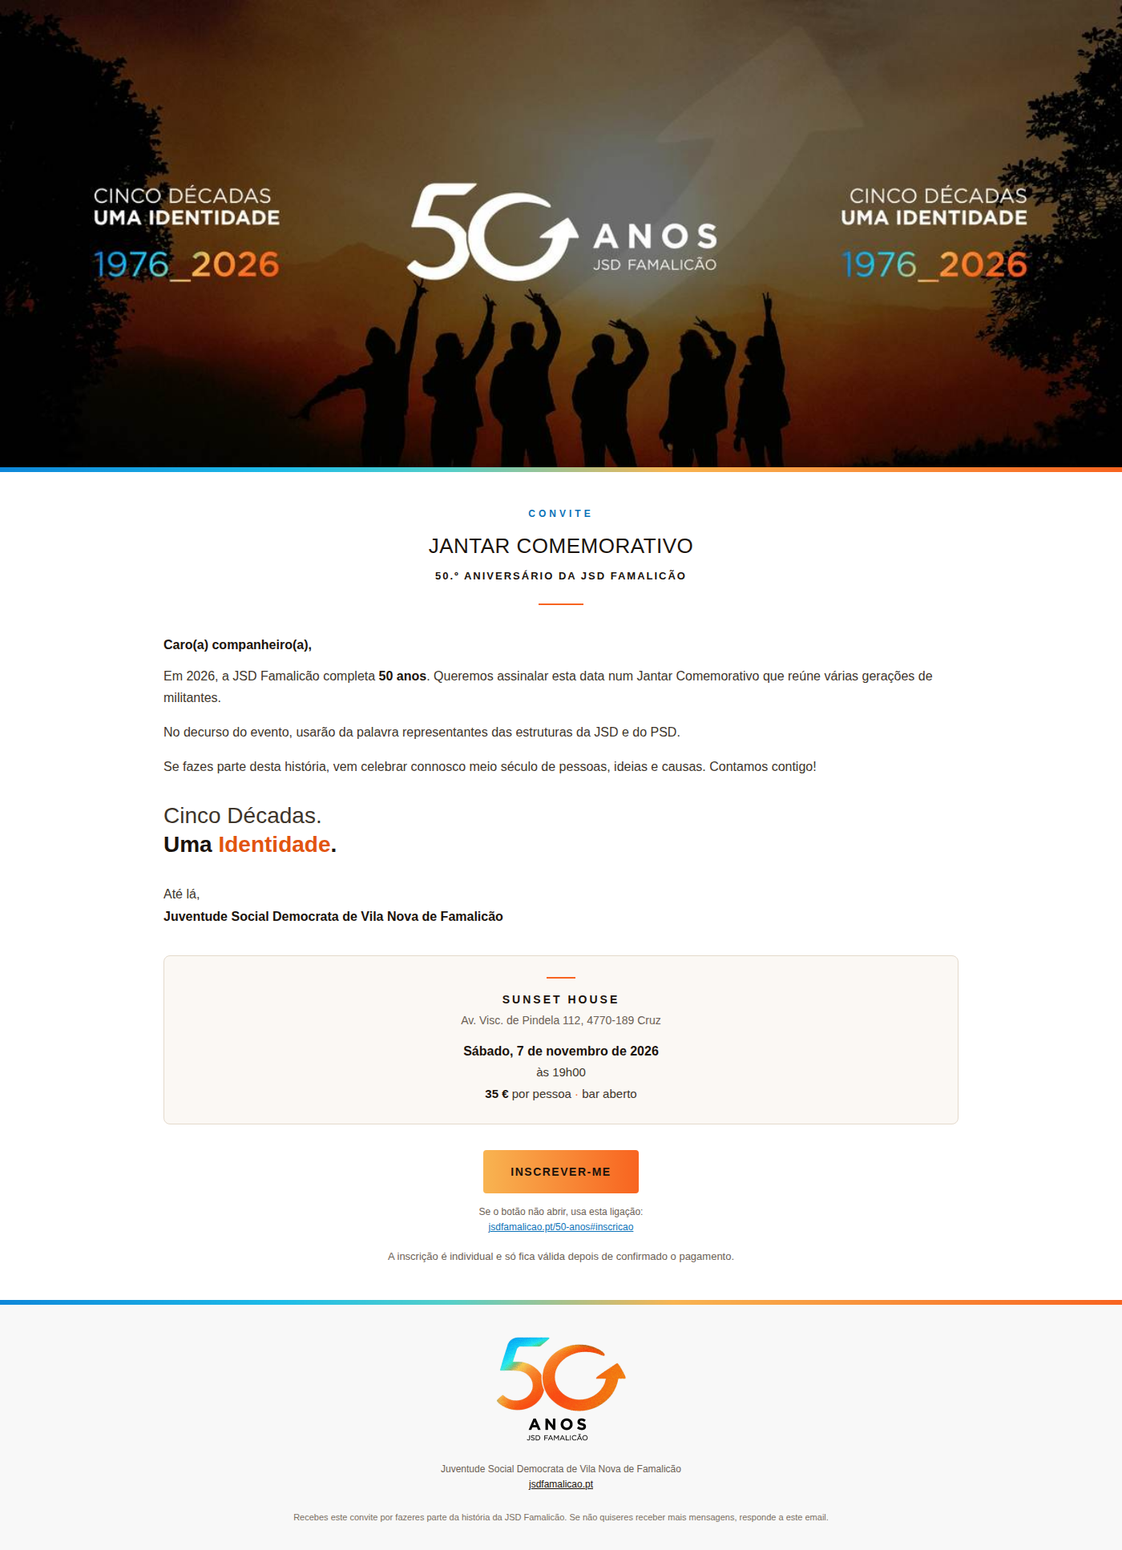
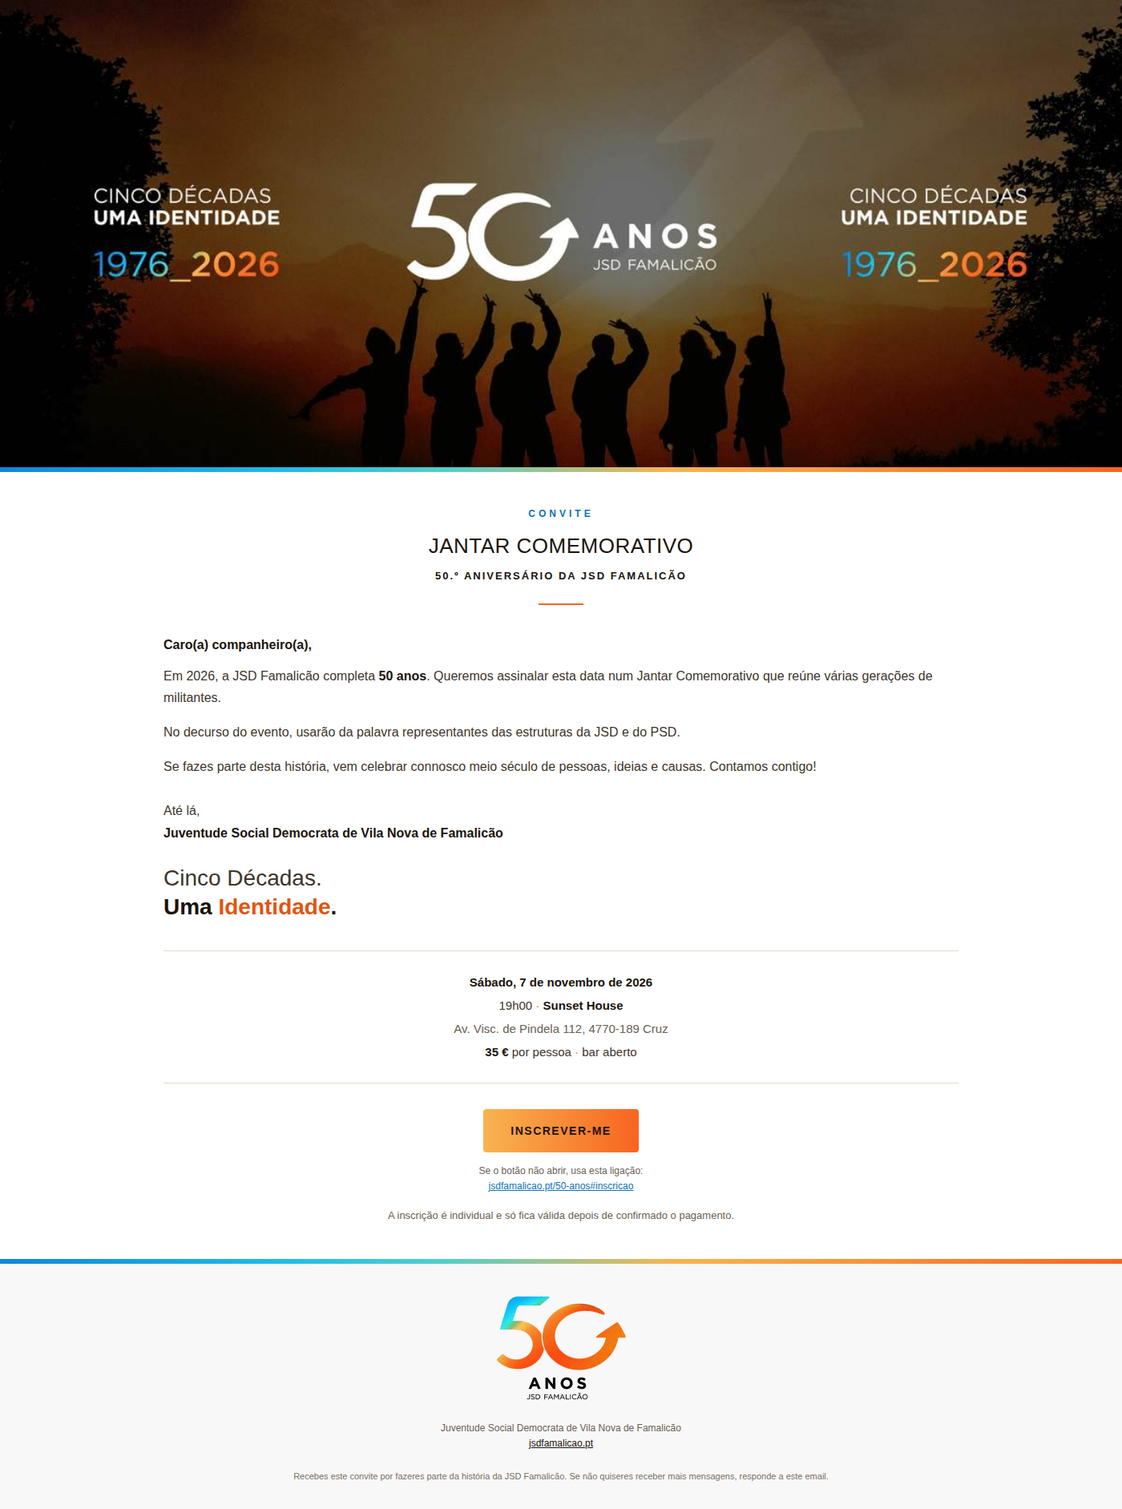
Email: v7/v8 com os dados entre filetes e o mote depois da despedida
Claude-Session: https://claude.ai/code/session_015mwyiP4waEoG1anDPcCGSk

diff --git a/email/jsd-50-anos/v8-convite-institucional.html b/email/jsd-50-anos/v8-convite-institucional.html
@@ -27,11 +27,6 @@
       .btn-tabela  { width:100% !important; }
       .btn         { display:block !important; padding:19px 12px !important; font-size:16px !important; }
       .t-mote      { font-size:30px !important; line-height:38px !important; }
-      .t-cx-local  { font-size:15px !important; line-height:22px !important; }
-      .t-cx-morada { font-size:15px !important; line-height:23px !important; }
-      .t-cx-data   { font-size:18px !important; line-height:26px !important; }
-      .t-cx-preco  { font-size:16px !important; line-height:24px !important; }
-      .cx-pad      { padding-left:16px !important; padding-right:16px !important; }
     }
   </style>
 </head>
@@ -94,32 +89,28 @@
             <td class="px t-corpo" align="left" style="padding:16px 24px 0px 24px; font-family:Montserrat,'Helvetica Neue',Helvetica,Arial,sans-serif; font-size:16px; line-height:27px; color:#3E352B; text-align:left;">Será uma honra contar com a sua presença para celebrarmos juntos meio século de pessoas, ideias e causas.</td>
           </tr>
           <tr>
-            <td class="px t-mote" align="left" style="padding:30px 24px 0px 24px; font-family:Montserrat,'Helvetica Neue',Helvetica,Arial,sans-serif; font-size:28px; line-height:36px; font-weight:300; color:#3E352B; text-align:left;">Cinco Décadas.<br><strong style="font-weight:800; color:#1B130C;">Uma <span style="color:#E2540F;">Identidade</span>.</strong></td>
-          </tr>
-          <tr>
-            <td class="px t-corpo" align="left" style="padding:30px 24px 0px 24px; font-family:Montserrat,'Helvetica Neue',Helvetica,Arial,sans-serif; font-size:16px; line-height:27px; color:#3E352B; text-align:left;">Com os melhores cumprimentos,</td>
+            <td class="px t-corpo" align="left" style="padding:28px 24px 0px 24px; font-family:Montserrat,'Helvetica Neue',Helvetica,Arial,sans-serif; font-size:16px; line-height:27px; color:#3E352B; text-align:left;">Com os melhores cumprimentos,</td>
           </tr>
           <tr>
             <td class="px t-corpo" align="left" style="padding:2px 24px 0px 24px; font-family:Montserrat,'Helvetica Neue',Helvetica,Arial,sans-serif; font-size:16px; line-height:25px; font-weight:700; color:#1B130C; text-align:left;">Juventude Social Democrata de Vila Nova de&nbsp;Famalicão</td>
           </tr>
           <tr>
-            <td class="px" style="padding:36px 24px 0 24px;">
-              <table role="presentation" width="100%" cellpadding="0" cellspacing="0" border="0" bgcolor="#FBF8F4"
-                     style="width:100%; background-color:#FBF8F4; border:1px solid #E4D9CB; border-radius:8px;">
-                <tr>
-                  <td class="cx-pad" align="center" style="padding:26px 24px 26px 24px;">
-                    <table role="presentation" width="100%" cellpadding="0" cellspacing="0" border="0">
-                      <tr><td align="center" style="padding-bottom:16px;">
-                        <table role="presentation" align="center" cellpadding="0" cellspacing="0" border="0"><tr><td width="36" height="2" bgcolor="#F86420" style="width:36px; height:2px; background-color:#F86420; font-size:0; line-height:0;">&nbsp;</td></tr></table>
-                      </td></tr>
-                      <tr><td class="t-cx-local" align="center" style="padding-top:0px; font-family:Montserrat,'Helvetica Neue',Helvetica,Arial,sans-serif; font-size:14px; line-height:21px; font-weight:800; letter-spacing:3px; text-transform:uppercase; color:#1B130C; text-align:center;">Sunset&nbsp;House</td></tr>
-                      <tr><td class="t-cx-morada" align="center" style="padding-top:4px; font-family:Montserrat,'Helvetica Neue',Helvetica,Arial,sans-serif; font-size:14px; line-height:22px; color:#6B6054; text-align:center;"><a href="https://www.google.com/maps/search/?api=1&amp;query=Av.+Visconde+de+Pindela+112,+4770-189+Cruz" style="color:#6B6054; text-decoration:none;">Av.&nbsp;Visc.&nbsp;de&nbsp;Pindela&nbsp;112, 4770&#8209;189&nbsp;Cruz</a></td></tr>
-                      <tr><td class="t-cx-data" align="center" style="padding-top:16px; font-family:Montserrat,'Helvetica Neue',Helvetica,Arial,sans-serif; font-size:16px; line-height:24px; font-weight:700; color:#1B130C; text-align:center;">Sábado, 7&nbsp;de&nbsp;novembro&nbsp;de&nbsp;2026</td></tr>
-                      <tr><td class="t-cx-preco" align="center" style="padding-top:2px; font-family:Montserrat,'Helvetica Neue',Helvetica,Arial,sans-serif; font-size:15px; line-height:23px; color:#3E352B; text-align:center;">às 19h00</td></tr>
-                      <tr><td class="t-cx-preco" align="center" style="padding-top:4px; font-family:Montserrat,'Helvetica Neue',Helvetica,Arial,sans-serif; font-size:15px; line-height:23px; color:#3E352B; text-align:center;"><strong style="color:#1B130C;">35&nbsp;€</strong> por pessoa<span style="color:#F86420;">&nbsp;·&nbsp;</span>bar aberto</td></tr>
-                    </table>
-                  </td>
-                </tr>
+            <td class="px t-mote" align="left" style="padding:26px 24px 0px 24px; font-family:Montserrat,'Helvetica Neue',Helvetica,Arial,sans-serif; font-size:28px; line-height:36px; font-weight:300; color:#3E352B; text-align:left;">Cinco Décadas.<br><strong style="font-weight:800; color:#1B130C;">Uma <span style="color:#E2540F;">Identidade</span>.</strong></td>
+          </tr>
+          <tr>
+            <td class="px" style="padding:36px 24px 0px 24px;">
+              <table role="presentation" width="100%" cellpadding="0" cellspacing="0" border="0">
+                <tr><td height="1" bgcolor="#E4D9CB" style="height:1px; background-color:#E4D9CB; font-size:0; line-height:0;">&nbsp;</td></tr>
+              </table>
+            </td>
+          </tr>
+          <tr>
+            <td class="px t-dados" align="center" style="padding:24px 24px 24px 24px; font-family:Montserrat,'Helvetica Neue',Helvetica,Arial,sans-serif; font-size:15px; line-height:29px; color:#3E352B; text-align:center;"><strong style="color:#1B130C;">Sábado, 7&nbsp;de&nbsp;novembro de&nbsp;2026</strong><br>19h00<span style="color:#F86420;">&nbsp;·&nbsp;</span><strong style="color:#1B130C;">Sunset&nbsp;House</strong><br><a href="https://www.google.com/maps/search/?api=1&amp;query=Av.+Visconde+de+Pindela+112,+4770-189+Cruz" style="color:#6B6054; text-decoration:none;">Av.&nbsp;Visc.&nbsp;de&nbsp;Pindela&nbsp;112, 4770&#8209;189&nbsp;Cruz</a><br><strong style="color:#1B130C;">35&nbsp;€</strong> por pessoa<span style="color:#F86420;">&nbsp;·&nbsp;</span>bar aberto</td>
+          </tr>
+          <tr>
+            <td class="px" style="padding:0px 24px 0px 24px;">
+              <table role="presentation" width="100%" cellpadding="0" cellspacing="0" border="0">
+                <tr><td height="1" bgcolor="#E4D9CB" style="height:1px; background-color:#E4D9CB; font-size:0; line-height:0;">&nbsp;</td></tr>
               </table>
             </td>
           </tr>

diff --git a/email/jsd-50-anos/v7-convite-geral.html b/email/jsd-50-anos/v7-convite-geral.html
@@ -27,11 +27,6 @@
       .btn-tabela  { width:100% !important; }
       .btn         { display:block !important; padding:19px 12px !important; font-size:16px !important; }
       .t-mote      { font-size:30px !important; line-height:38px !important; }
-      .t-cx-local  { font-size:15px !important; line-height:22px !important; }
-      .t-cx-morada { font-size:15px !important; line-height:23px !important; }
-      .t-cx-data   { font-size:18px !important; line-height:26px !important; }
-      .t-cx-preco  { font-size:16px !important; line-height:24px !important; }
-      .cx-pad      { padding-left:16px !important; padding-right:16px !important; }
     }
   </style>
 </head>
@@ -94,32 +89,28 @@
             <td class="px t-corpo" align="left" style="padding:16px 24px 0px 24px; font-family:Montserrat,'Helvetica Neue',Helvetica,Arial,sans-serif; font-size:16px; line-height:27px; color:#3E352B; text-align:left;">Se fazes parte desta história, vem celebrar connosco meio século de pessoas, ideias e causas. Contamos contigo!</td>
           </tr>
           <tr>
-            <td class="px t-mote" align="left" style="padding:30px 24px 0px 24px; font-family:Montserrat,'Helvetica Neue',Helvetica,Arial,sans-serif; font-size:28px; line-height:36px; font-weight:300; color:#3E352B; text-align:left;">Cinco Décadas.<br><strong style="font-weight:800; color:#1B130C;">Uma <span style="color:#E2540F;">Identidade</span>.</strong></td>
-          </tr>
-          <tr>
-            <td class="px t-corpo" align="left" style="padding:30px 24px 0px 24px; font-family:Montserrat,'Helvetica Neue',Helvetica,Arial,sans-serif; font-size:16px; line-height:27px; color:#3E352B; text-align:left;">Até lá,</td>
+            <td class="px t-corpo" align="left" style="padding:28px 24px 0px 24px; font-family:Montserrat,'Helvetica Neue',Helvetica,Arial,sans-serif; font-size:16px; line-height:27px; color:#3E352B; text-align:left;">Até lá,</td>
           </tr>
           <tr>
             <td class="px t-corpo" align="left" style="padding:2px 24px 0px 24px; font-family:Montserrat,'Helvetica Neue',Helvetica,Arial,sans-serif; font-size:16px; line-height:25px; font-weight:700; color:#1B130C; text-align:left;">Juventude Social Democrata de Vila Nova de&nbsp;Famalicão</td>
           </tr>
           <tr>
-            <td class="px" style="padding:36px 24px 0 24px;">
-              <table role="presentation" width="100%" cellpadding="0" cellspacing="0" border="0" bgcolor="#FBF8F4"
-                     style="width:100%; background-color:#FBF8F4; border:1px solid #E4D9CB; border-radius:8px;">
-                <tr>
-                  <td class="cx-pad" align="center" style="padding:26px 24px 26px 24px;">
-                    <table role="presentation" width="100%" cellpadding="0" cellspacing="0" border="0">
-                      <tr><td align="center" style="padding-bottom:16px;">
-                        <table role="presentation" align="center" cellpadding="0" cellspacing="0" border="0"><tr><td width="36" height="2" bgcolor="#F86420" style="width:36px; height:2px; background-color:#F86420; font-size:0; line-height:0;">&nbsp;</td></tr></table>
-                      </td></tr>
-                      <tr><td class="t-cx-local" align="center" style="padding-top:0px; font-family:Montserrat,'Helvetica Neue',Helvetica,Arial,sans-serif; font-size:14px; line-height:21px; font-weight:800; letter-spacing:3px; text-transform:uppercase; color:#1B130C; text-align:center;">Sunset&nbsp;House</td></tr>
-                      <tr><td class="t-cx-morada" align="center" style="padding-top:4px; font-family:Montserrat,'Helvetica Neue',Helvetica,Arial,sans-serif; font-size:14px; line-height:22px; color:#6B6054; text-align:center;"><a href="https://www.google.com/maps/search/?api=1&amp;query=Av.+Visconde+de+Pindela+112,+4770-189+Cruz" style="color:#6B6054; text-decoration:none;">Av.&nbsp;Visc.&nbsp;de&nbsp;Pindela&nbsp;112, 4770&#8209;189&nbsp;Cruz</a></td></tr>
-                      <tr><td class="t-cx-data" align="center" style="padding-top:16px; font-family:Montserrat,'Helvetica Neue',Helvetica,Arial,sans-serif; font-size:16px; line-height:24px; font-weight:700; color:#1B130C; text-align:center;">Sábado, 7&nbsp;de&nbsp;novembro&nbsp;de&nbsp;2026</td></tr>
-                      <tr><td class="t-cx-preco" align="center" style="padding-top:2px; font-family:Montserrat,'Helvetica Neue',Helvetica,Arial,sans-serif; font-size:15px; line-height:23px; color:#3E352B; text-align:center;">às 19h00</td></tr>
-                      <tr><td class="t-cx-preco" align="center" style="padding-top:4px; font-family:Montserrat,'Helvetica Neue',Helvetica,Arial,sans-serif; font-size:15px; line-height:23px; color:#3E352B; text-align:center;"><strong style="color:#1B130C;">35&nbsp;€</strong> por pessoa<span style="color:#F86420;">&nbsp;·&nbsp;</span>bar aberto</td></tr>
-                    </table>
-                  </td>
-                </tr>
+            <td class="px t-mote" align="left" style="padding:26px 24px 0px 24px; font-family:Montserrat,'Helvetica Neue',Helvetica,Arial,sans-serif; font-size:28px; line-height:36px; font-weight:300; color:#3E352B; text-align:left;">Cinco Décadas.<br><strong style="font-weight:800; color:#1B130C;">Uma <span style="color:#E2540F;">Identidade</span>.</strong></td>
+          </tr>
+          <tr>
+            <td class="px" style="padding:36px 24px 0px 24px;">
+              <table role="presentation" width="100%" cellpadding="0" cellspacing="0" border="0">
+                <tr><td height="1" bgcolor="#E4D9CB" style="height:1px; background-color:#E4D9CB; font-size:0; line-height:0;">&nbsp;</td></tr>
+              </table>
+            </td>
+          </tr>
+          <tr>
+            <td class="px t-dados" align="center" style="padding:24px 24px 24px 24px; font-family:Montserrat,'Helvetica Neue',Helvetica,Arial,sans-serif; font-size:15px; line-height:29px; color:#3E352B; text-align:center;"><strong style="color:#1B130C;">Sábado, 7&nbsp;de&nbsp;novembro de&nbsp;2026</strong><br>19h00<span style="color:#F86420;">&nbsp;·&nbsp;</span><strong style="color:#1B130C;">Sunset&nbsp;House</strong><br><a href="https://www.google.com/maps/search/?api=1&amp;query=Av.+Visconde+de+Pindela+112,+4770-189+Cruz" style="color:#6B6054; text-decoration:none;">Av.&nbsp;Visc.&nbsp;de&nbsp;Pindela&nbsp;112, 4770&#8209;189&nbsp;Cruz</a><br><strong style="color:#1B130C;">35&nbsp;€</strong> por pessoa<span style="color:#F86420;">&nbsp;·&nbsp;</span>bar aberto</td>
+          </tr>
+          <tr>
+            <td class="px" style="padding:0px 24px 0px 24px;">
+              <table role="presentation" width="100%" cellpadding="0" cellspacing="0" border="0">
+                <tr><td height="1" bgcolor="#E4D9CB" style="height:1px; background-color:#E4D9CB; font-size:0; line-height:0;">&nbsp;</td></tr>
               </table>
             </td>
           </tr>

diff --git a/email/jsd-50-anos/src/gerar_final.py b/email/jsd-50-anos/src/gerar_final.py
@@ -1,8 +1,8 @@
 """Versões FINAIS do convite: v7 (geral) e v8 (institucional). Mesmo layout nos dois.
 
-Ordem: cabeçalho centrado → saudação → 3 parágrafos → mote «Cinco Décadas. Uma Identidade.» em
-destaque (alinhado com o texto) → despedida e assinatura → quadrado com local, morada, data e preço →
-botão, ligação alternativa e nota → rodapé com o logo (PNG transparente).
+Ordem: cabeçalho centrado → saudação → 3 parágrafos → despedida e assinatura → mote «Cinco Décadas.
+Uma Identidade.» em destaque (alinhado com o texto) → dados (data, hora, local, morada, preço) em linhas
+centradas entre dois filetes → botão, ligação alternativa e nota → rodapé com o logo (PNG transparente).
 
 Modo noturno: <meta name="color-scheme" content="light only"> e :root { color-scheme: light only }
 pedem a versão clara aos clientes que respeitam esta indicação (Apple Mail/iOS Mail, Outlook para
@@ -57,41 +57,17 @@ ASSINATURA = 'Juventude Social Democrata de Vila Nova de&nbsp;Famalicão'
 
 # ------------------------------------------------------------------ responsivo (telemóvel)
 CSS = '''
-      .t-mote      { font-size:30px !important; line-height:38px !important; }
-      .t-cx-local  { font-size:15px !important; line-height:22px !important; }
-      .t-cx-morada { font-size:15px !important; line-height:23px !important; }
-      .t-cx-data   { font-size:18px !important; line-height:26px !important; }
-      .t-cx-preco  { font-size:16px !important; line-height:24px !important; }
-      .cx-pad      { padding-left:16px !important; padding-right:16px !important; }'''
+      .t-mote      { font-size:30px !important; line-height:38px !important; }'''
 
 
-def quadrado():
-    """Quadrado com local, morada, data e preço: fundo claro, filete fino, cantos arredondados, sem etiquetas."""
-    def l(classe, estilo, html, cima=0):
-        return (f'<tr><td class="{classe}" align="center" style="padding-top:{cima}px; font-family:{FONT}; {estilo} text-align:center;">'
-                f'{html}</td></tr>')
-    return f'''
-          <tr>
-            <td class="px" style="padding:36px {LADO}px 0 {LADO}px;">
-              <table role="presentation" width="100%" cellpadding="0" cellspacing="0" border="0" bgcolor="#FBF8F4"
-                     style="width:100%; background-color:#FBF8F4; border:1px solid #E4D9CB; border-radius:8px;">
-                <tr>
-                  <td class="cx-pad" align="center" style="padding:26px 24px 26px 24px;">
-                    <table role="presentation" width="100%" cellpadding="0" cellspacing="0" border="0">
-                      <tr><td align="center" style="padding-bottom:16px;">
-                        <table role="presentation" align="center" cellpadding="0" cellspacing="0" border="0"><tr><td width="36" height="2" bgcolor="#F86420" style="width:36px; height:2px; background-color:#F86420; font-size:0; line-height:0;">&nbsp;</td></tr></table>
-                      </td></tr>
-                      {l('t-cx-local', f'font-size:14px; line-height:21px; font-weight:800; letter-spacing:3px; text-transform:uppercase; color:{ESCURO};', 'Sunset&nbsp;House')}
-                      {l('t-cx-morada', f'font-size:14px; line-height:22px; color:{MUTED};', MAPA_LINK, 4)}
-                      {l('t-cx-data', f'font-size:16px; line-height:24px; font-weight:700; color:{ESCURO};', 'Sábado, 7&nbsp;de&nbsp;novembro&nbsp;de&nbsp;2026', 16)}
-                      {l('t-cx-preco', 'font-size:15px; line-height:23px; color:#3E352B;', 'às 19h00', 2)}
-                      {l('t-cx-preco', 'font-size:15px; line-height:23px; color:#3E352B;', f'<strong {FORTE}>35&nbsp;€</strong> por pessoa{PONTO}bar aberto', 4)}
-                    </table>
-                  </td>
-                </tr>
-              </table>
-            </td>
-          </tr>'''
+def dados():
+    """Local, morada, data e preço em quatro linhas centradas entre dois filetes finos (sem caixa)."""
+    return filete(36, 0) + linha(
+        f'<strong {FORTE}>Sábado, 7&nbsp;de&nbsp;novembro de&nbsp;2026</strong><br>'
+        f'19h00{PONTO}<strong {FORTE}>Sunset&nbsp;House</strong><br>'
+        f'{MAPA_LINK}<br>'
+        f'<strong {FORTE}>35&nbsp;€</strong> por pessoa{PONTO}bar aberto',
+        24, 24, 'font-size:15px; line-height:29px; color:#3E352B;', 'center', 't-dados') + filete()
 
 
 def convite(t):
@@ -99,12 +75,12 @@ def convite(t):
         cabecalho(),
         linha(t['saudacao'], 36, 0, f'font-size:16px; line-height:27px; font-weight:700; color:{ESCURO};'),
         *[linha(p, 12 if i == 0 else 16, 0) for i, p in enumerate(t['paragrafos'])],
-        # mote: único elemento gráfico dentro do texto, alinhado com ele
-        linha(f'Cinco Décadas.<br><strong style="font-weight:800; color:{ESCURO};">Uma <span style="color:{LARANJA_TEXTO};">Identidade</span>.</strong>',
-              30, 0, 'font-size:28px; line-height:36px; font-weight:300; color:#3E352B;', 'left', 't-mote'),
-        linha(t['despedida'], 30, 0),
+        linha(t['despedida'], 28, 0),
         linha(ASSINATURA, 2, 0, f'font-size:16px; line-height:25px; font-weight:700; color:{ESCURO};'),
-        quadrado(),
+        # mote depois da despedida e da assinatura: único elemento gráfico do texto, alinhado com ele
+        linha(f'Cinco Décadas.<br><strong style="font-weight:800; color:{ESCURO};">Uma <span style="color:{LARANJA_TEXTO};">Identidade</span>.</strong>',
+              26, 0, 'font-size:28px; line-height:36px; font-weight:300; color:#3E352B;', 'left', 't-mote'),
+        dados(),
         botao(t['botao'], 32, 0, t['alternativa'], baixo_ligacao=0),
         linha(t['nota'], 16, 44, f'font-size:13px; line-height:21px; color:{MUTED};', 'center', 't-nota'),
     ])

diff --git a/email/jsd-50-anos/LEIA-ME.md b/email/jsd-50-anos/LEIA-ME.md
@@ -7,11 +7,11 @@
 | `v7-convite-geral.html` | militantes (trata por «tu») | Caro(a) companheiro(a), | Até lá, | Inscrever-me |
 | `v8-convite-institucional.html` | convidados institucionais | Estimado(a) companheiro(a), | Com os melhores cumprimentos, | Confirmar presença |
 
-Layout (igual nos dois): banner → cabeçalho centrado → saudação → 3 parágrafos → mote **«Cinco Décadas. Uma Identidade.»** (único elemento gráfico no texto, alinhado com ele) → despedida e assinatura → **quadrado** com local, morada, data, hora e preço → botão, ligação alternativa e nota → rodapé com o logo do evento. Gerados por `src/gerar_final.py` (textos no dicionário `CONVITES`).
+Layout (igual nos dois): banner → cabeçalho centrado → saudação → 3 parágrafos → despedida e assinatura → mote **«Cinco Décadas. Uma Identidade.»** em destaque, alinhado com o texto → dados em quatro linhas centradas entre dois filetes finos (data · hora e local · morada · preço) → botão, ligação alternativa e nota → rodapé com o logo do evento. Gerados por `src/gerar_final.py` (textos no dicionário `CONVITES`).
 
 **Modo noturno.** O `<head>` declara `color-scheme: light only`. Os clientes que respeitam esta indicação mostram sempre a versão branca, mesmo com o telemóvel em modo noturno: Apple Mail/iOS Mail, Outlook para iOS/macOS e browsers com escurecimento automático. Testado com o escurecimento forçado do Chromium: o email fica pixel a pixel igual à versão clara (numa prova de controlo, uma versão sem esta indicação escurece). **As apps do Gmail aplicam sempre o seu próprio modo escuro e nenhum email o pode desligar.** Para esse caso, o logo passou a PNG **sem fundo** (`logo-50-anos.png`, já não aparece o quadrado branco) e as letras escuras do logo têm um contorno claro que só se nota sobre fundo escuro. Ver `preview-v7-geral-gmail-escuro.png` e `preview-v8-institucional-gmail-escuro.png`.
 
-**Inspeção feita:** HTML validado (0 erros; o `&` do link do mapa está escapado); etiquetas equilibradas; imagens com texto alternativo; ligações (`jsdfamalicao.pt/50-anos#inscricao`, `jsdfamalicao.pt`, Google Maps). Em 8 larguras (320, 360, 375, 390, 414, 768, 1024 e 1400 px), com e sem o bloco `<style>`: sem deslocamento horizontal, nenhum elemento a transbordar, todo o texto à esquerda na mesma margem, o quadrado alinhado com o texto, o quadrado, o botão e o logo centrados (desvio 0 px), o mote sempre em 2 linhas e as linhas do quadrado a partir só em pontos limpos. Tamanho: cerca de 93 KB por ficheiro (abaixo dos 102 KB a partir dos quais o Gmail corta a mensagem).
+**Inspeção feita:** HTML validado (0 erros; o `&` do link do mapa está escapado); etiquetas equilibradas; imagens com texto alternativo; ligações (`jsdfamalicao.pt/50-anos#inscricao`, `jsdfamalicao.pt`, Google Maps). Em 8 larguras (320, 360, 375, 390, 414, 768, 1024 e 1400 px), com e sem o bloco `<style>`: sem deslocamento horizontal, nenhum elemento a transbordar, todo o texto à esquerda na mesma margem, os filetes dos dados alinhados com o texto, os dados, o botão e o logo centrados (desvio 0 px) e o mote sempre em 2 linhas; os dados ficam em 4 linhas a partir de 360 px (a 320 px a morada passa para 2 linhas, depois da vírgula). Tamanho: cerca de 91 KB por ficheiro (abaixo dos 102 KB a partir dos quais o Gmail corta a mensagem).
 
 Pré-visualizações: `preview-v7-geral-*`, `preview-v8-institucional-*`.
 
